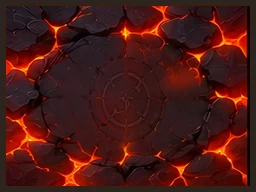
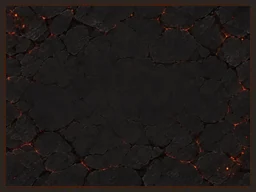
보석 트레이 7종 바닥을 새로 그린 심플한 그림으로
- 문장 · 모서리 장식 · 고리 없이 테마 재질만 (대리석 · 벨벳 · 물빛 · 돌 · 화지와 꽃잎 몇 장 · 현무암 · 밤하늘)
- 바닥 · 발광 지도 · 주사위 칸 바닥 21장 교체, 꾸미기 썸네일도 새 바닥으로
- ART_VER a3 (skins.js · sw.js)

Claude-Session: https://claude.ai/code/session_014gChBYzVF9cfUwsBghVSK5

diff --git a/dice-heroes/sw.js b/dice-heroes/sw.js
@@ -5,7 +5,7 @@
 // 그래서 새 버전을 배포하면 다음 실행에 바로 반영되고, 신호가 약해도 멈춰 있지 않는다.
 // 이름을 바꾸면 예전 캐시를 통째로 지운다 (v0.30.7: 버전이 안 붙은 예전 주사위·트레이 그림이 남아 있어서)
 const BGM_VER = 'b2';   // audio.js 의 BGM_VER 와 같아야 한다 (곡을 바꾸면 둘 다 올린다)
-const ART_VER = 'a2';  // skins.js 의 ART_VER 와 같아야 한다 (주사위 · 트레이 그림을 바꾸면 둘 다 올린다)
+const ART_VER = 'a3';  // skins.js 의 ART_VER 와 같아야 한다 (주사위 · 트레이 그림을 바꾸면 둘 다 올린다)
 const CACHE = 'dh-cache-3';   // v0.37.5: 버전이 안 붙은 예전 보스 곡(도입부 없는 루프)을 지운다
 const FILES = [
   './', 'index.html', 'style.css', 'app.js', 'engine.js', 'config.js', 'audio.js', 'dice3d.js', 'pixel.js',

diff --git a/dice-heroes/skins.js b/dice-heroes/skins.js
@@ -66,7 +66,7 @@ export const dieGlows = id => !!DIE_MAT[id]?.glow;
 // 그림 주소 끝에 그림 버전(ART_VER)을 붙인다. 게임 버전을 붙이면 업데이트마다 주사위 · 트레이 그림을 전부 다시 받아서
 // 첫 판에 트레이가 늦게 뜨곤 했다. 주사위 · 트레이 그림 파일을 바꾸거나 더하면 sw.js 의 ART_VER 와 함께 올린다
 // (안 올려도 sw.js 가 뒤에서 새 그림을 받아 두어 다음 실행부터는 새 그림 — 올리면 바로)
-export const ART_VER = 'a2';
+export const ART_VER = 'a3';
 const AV = `?v=${ART_VER}`;
 export const dieImage = (id, v) => (DIE_MAT[id]?.image ? `assets/dice/${id}/${v}.webp${AV}` : null);
 

diff --git a/dice-heroes/config.js b/dice-heroes/config.js
@@ -3,6 +3,6 @@ export const GAME = {
   name: '요트 히어로즈',
   en: 'YACHT HEROES',
   studio: 'HAHAHOHO COMPANY',
-  version: '0.38.99',
+  version: '0.39.0',
   year: 2026,
 };
